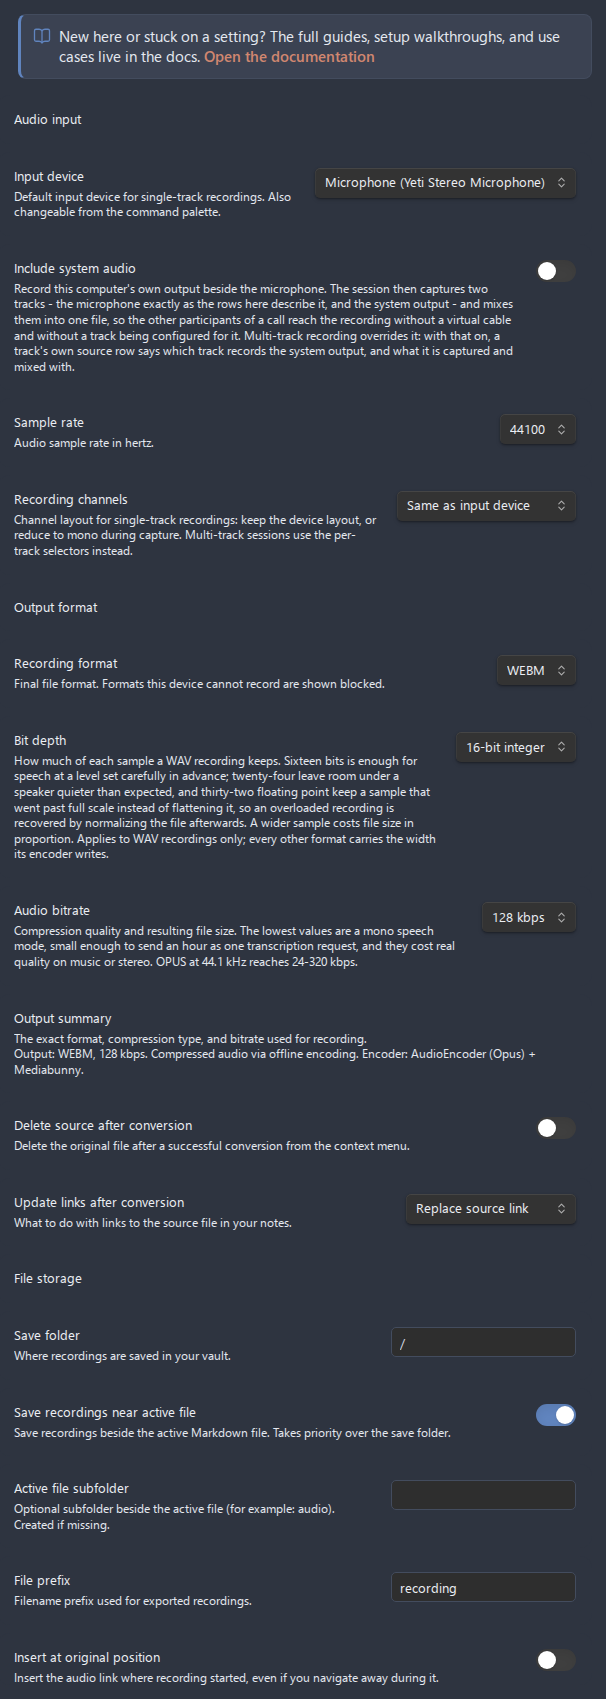
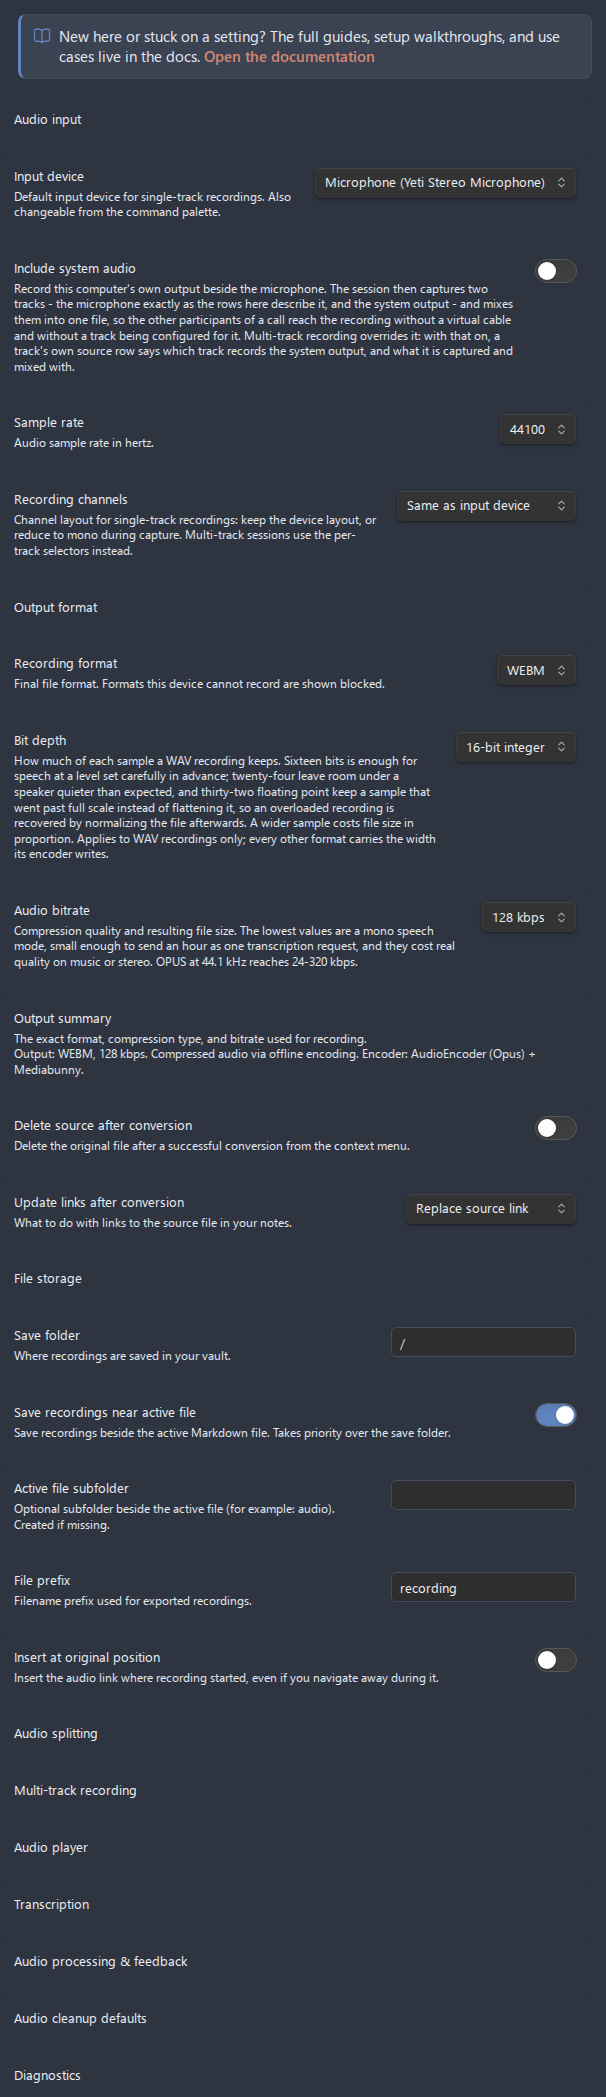
docs: keep the section entries under the settings overview
The overview figure was re-rendered through the legacy renderer, which
draws a sub-page inline rather than as the entry Obsidian 1.13 shows,
so the picture stopped at File storage and the list of sections under
it went missing. Emptying every nested page leaves its heading standing
alone, which is the entry row, and the figure is the whole tab again
with the bit depth row in its place.

Claude-Session: https://claude.ai/code/session_017N8yeA7nXRPFh67E49ZnRK

diff --git a/docs/features.md b/docs/features.md
@@ -28,7 +28,7 @@ Advanced Audio Recorder is a recording plugin for [Obsidian](https://obsidian.md
 - [Diagnostics](#diagnostics)
 - [Feature matrix](#feature-matrix)
 
-![The plugin settings tab with the documentation callout and the audio input, output format and file storage rows, the output format section showing recording format, bit depth, audio bitrate and the read-only output summary](images/features-settings-overview.png)
+![The plugin settings tab with the documentation callout, the audio input, output format and file storage rows, and one entry per section below them, with the output format section showing recording format, bit depth, audio bitrate and the read-only output summary](images/features-settings-overview.png)
 
 ---
 
